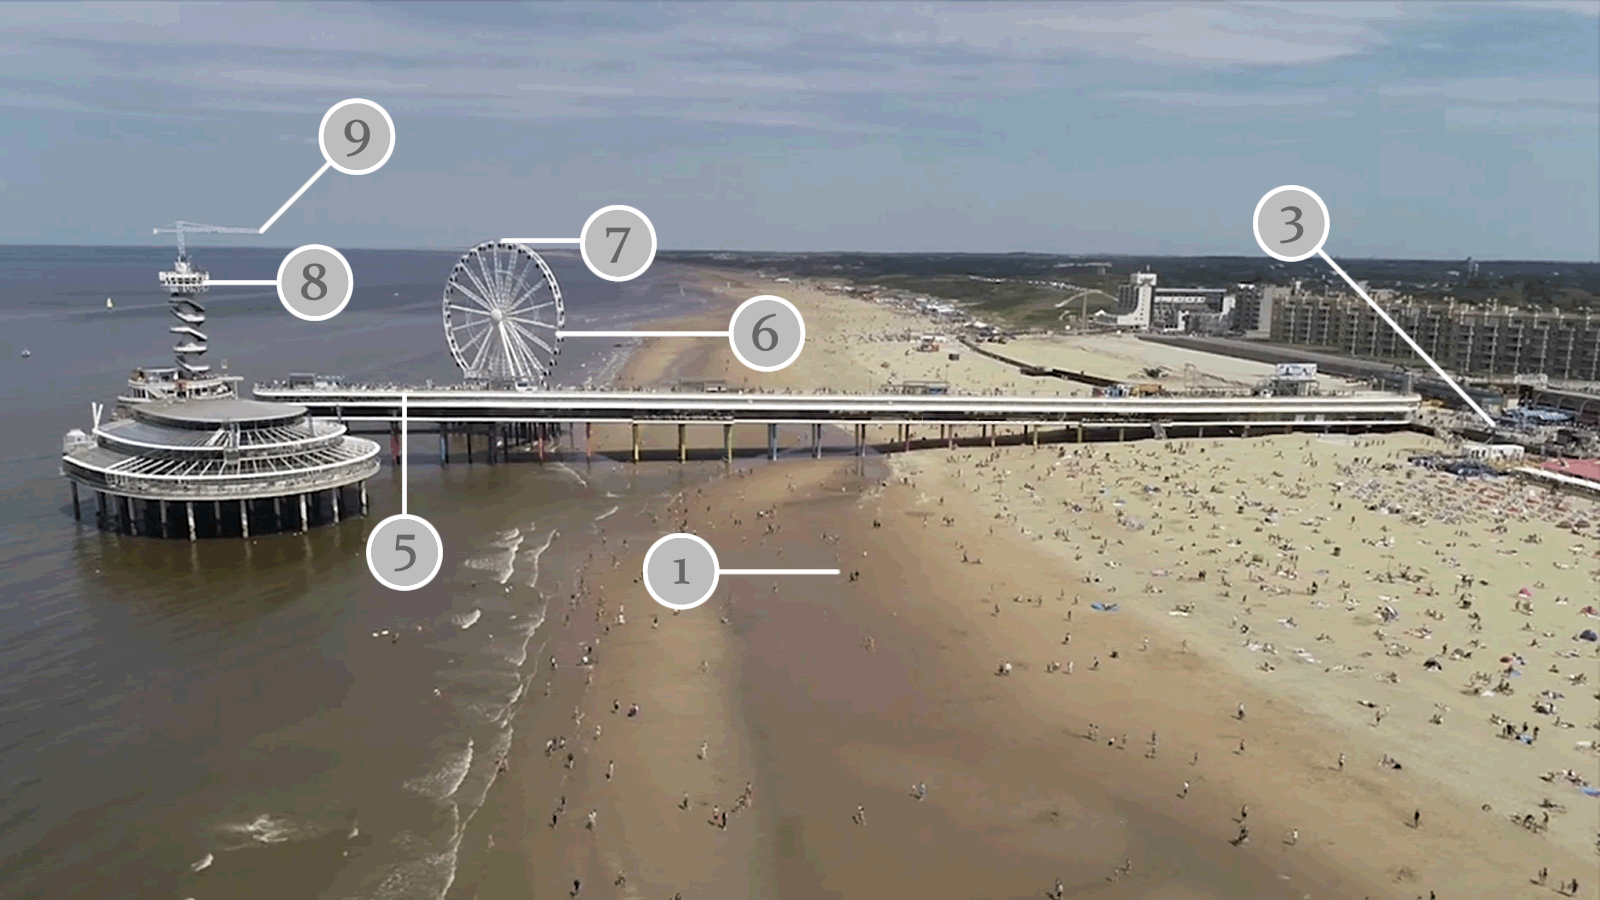
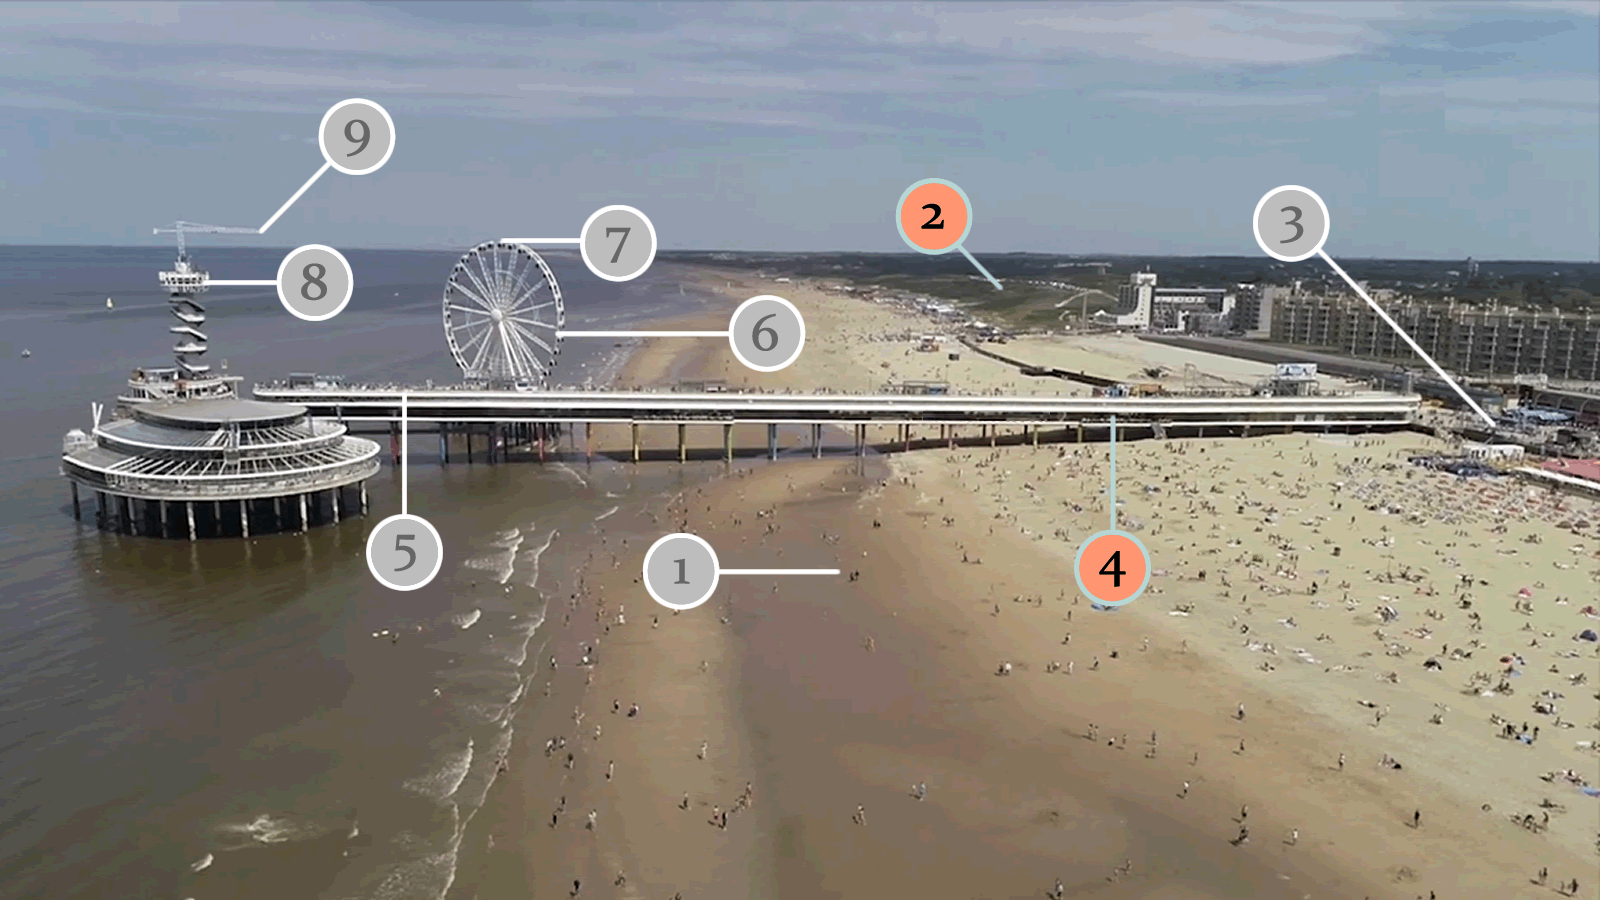
image map rescaling on level_select.html

Changed region(s): [[0.6562, 0.4667, 0.7188, 0.6844], [0.5625, 0.1867, 0.625, 0.3111]]

diff --git a/js/dependencies/imageMapResizer.min.js b/js/dependencies/imageMapResizer.min.js
@@ -1,0 +1,8 @@
+/*! Image Map Resizer (imageMapResizer.min.js ) - v1.0.10 - 2019-04-10
+ *  Desc: Resize HTML imageMap to scaled image.
+ *  Copyright: (c) 2019 David J. Bradshaw - dave@bradshaw.net
+ *  License: MIT
+ */
+
+!function(){"use strict";function r(){function e(){var r={width:u.width/u.naturalWidth,height:u.height/u.naturalHeight},a={width:parseInt(window.getComputedStyle(u,null).getPropertyValue("padding-left"),10),height:parseInt(window.getComputedStyle(u,null).getPropertyValue("padding-top"),10)};i.forEach(function(e,t){var n=0;o[t].coords=e.split(",").map(function(e){var t=1==(n=1-n)?"width":"height";return a[t]+Math.floor(Number(e)*r[t])}).join(",")})}function t(e){return e.coords.replace(/ *, */g,",").replace(/ +/g,",")}function n(){clearTimeout(d),d=setTimeout(e,250)}function r(e){return document.querySelector('img[usemap="'+e+'"]')}var a=this,o=null,i=null,u=null,d=null;"function"!=typeof a._resize?(o=a.getElementsByTagName("area"),i=Array.prototype.map.call(o,t),u=r("#"+a.name)||r(a.name),a._resize=e,u.addEventListener("load",e,!1),window.addEventListener("focus",e,!1),window.addEventListener("resize",n,!1),window.addEventListener("readystatechange",e,!1),document.addEventListener("fullscreenchange",e,!1),u.width===u.naturalWidth&&u.height===u.naturalHeight||e()):a._resize()}function e(){function t(e){e&&(!function(e){if(!e.tagName)throw new TypeError("Object is not a valid DOM element");if("MAP"!==e.tagName.toUpperCase())throw new TypeError("Expected <MAP> tag, found <"+e.tagName+">.")}(e),r.call(e),n.push(e))}var n;return function(e){switch(n=[],typeof e){case"undefined":case"string":Array.prototype.forEach.call(document.querySelectorAll(e||"map"),t);break;case"object":t(e);break;default:throw new TypeError("Unexpected data type ("+typeof e+").")}return n}}"function"==typeof define&&define.amd?define([],e):"object"==typeof module&&"object"==typeof module.exports?module.exports=e():window.imageMapResize=e(),"jQuery"in window&&(window.jQuery.fn.imageMapResize=function(){return this.filter("map").each(r).end()})}();
+//# sourceMappingURL=imageMapResizer.map

diff --git a/page_assets/level_select.html b/page_assets/level_select.html
@@ -1,7 +1,12 @@
 <link rel="stylesheet" href="./css/level_select.css">
 
 <div class="wrapper" id="wrapper">
-    <img src="img/level_select.png" alt="Level selection background" id="level_select_bg"></img>
+    <img src="img/level_select.png" usemap="#level_select"  alt="Level selection background" id="level_select_bg"></img>
+
+    <map name="level_select">
+        <area class="levelButton" nohref id="level_4_button" coords="1113,569,60" shape="circle">
+        <area class="levelButton" nohref id="level_2_button" coords="932,216,59" shape="circle">
+    </map>
 
     INSERT LEVEL SELECTION
 
@@ -10,11 +15,11 @@
     </a>
 
     <a class="levelStartButton">
-        START duin level 
+        START duin level
     </a>
-    
+
     <a class="levelStartButton">
-        START pier level 
+        START pier level
     </a>
-    
+
 </div>

diff --git a/js/main.js b/js/main.js
@@ -82,6 +82,8 @@ class StateController {
 
             case 6:
                 $("#body").load("page_assets/level_select.html");
+                loadJsFile('js/dependencies/imageMapResizer.min.js')
+                loadJsFile('js/level_select.js')
                 break;
 
             case 7:

diff --git a/js/level_select.js b/js/level_select.js
@@ -1,0 +1,9 @@
+let level2button = document.getElementById('level_2_button');
+let level4button = document.getElementById('level_4_button');
+
+imageMapResize();
+
+level2button.addEventListener('click', () => {
+    
+    
+})
